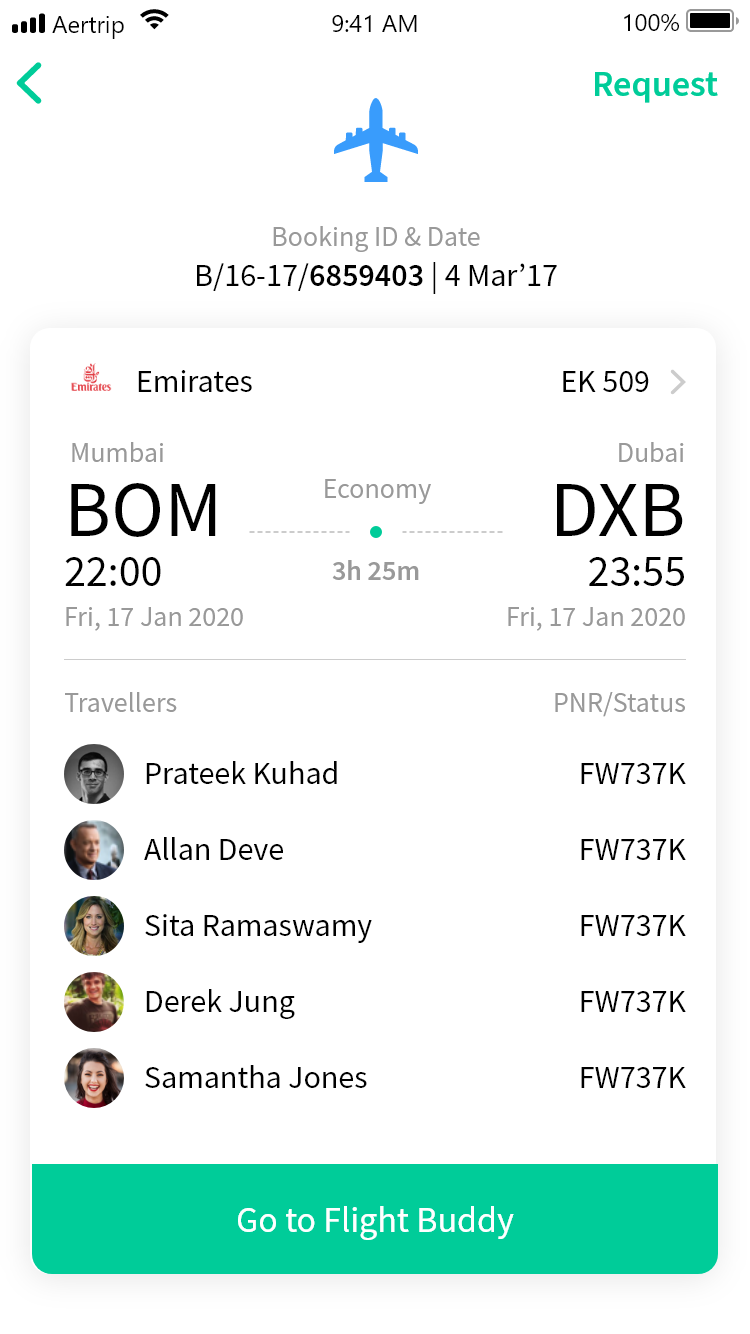
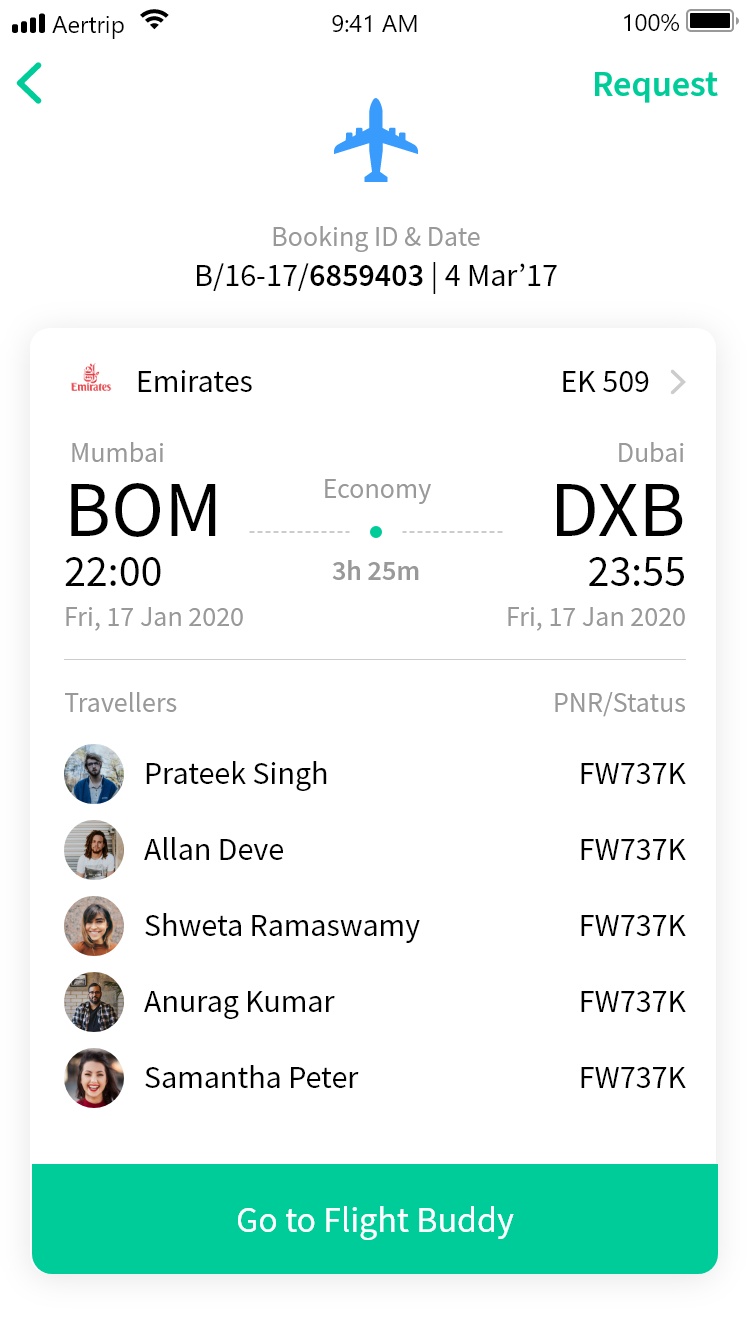
sdsd

diff --git a/case-study-2.html b/case-study-2.html
@@ -50,32 +50,33 @@
 		<div class="case-study-date">JANUARY, 2020</div>
 
 
-		<p class="text">Planning and making sure you are ready to board a flight has shown to be an anxious experience for many flight-goers. 
-		This is a mobile experience I worked on at Aertrip to aggregate all the needs of a traveller after they book a flight 
-		and keep them company until they reach their destination.</p>
+		<p class="text">Planning and making sure you are ready to board a flight has shown to be an anxious experience for many flight-goers.
+			Beginning with what to pack for a trip to the journey to the airport to the myriad checkpoints within the airport, 
+			flight-goers ranging from casual to frequent flyers have been found to have several points during their journey where they
+			require assistance. This mobile experience aims to be an aggregator of those identified needs
+			after a person has booked a flight ticket. 
+			
+		</p>
+		<p class="text">I worked on this mobile experience in the capacity of a UX Designer at <a class="inline-links" href="https://www.aertrip.com/">Aertrip</a>, an online travel portal.
+		</p>
+
+
 
 		<h2 class="heading-two">Inspiration</h2>
-		<p class="text"><b class="BookMyShow">BookMyShow</b> in early 2019 released a feature called the <b class="BookMyShow">Movie Mode</b> which led us to extrapolate a similar experience for flight-goers.
+		<p class="text"><b class="BookMyShow">BookMyShow</b> in early 2019 released a feature called the <a class="inline-links" href="https://we-are.bookmyshow.com/introducing-moviemode-7b64ca34c86c">Movie Mode</a> which led us to extrapolate a similar experience for flight-goers.
 		It seemed to fit right into something as complex/ intimading as air travel for a lot of users. It took the goal of the experience a step further than delight 
 		by guiding a user through a set a sequential tasks especially useful in the context of airports.</p>
 
-		<h2 class="heading-two">User flow</h2>
-		<p class="text"></p>
+		<h2 class="heading-two">User Types</h2>
 
-		<div class="full-width">
-			<img class="userFlow" src="FlightBuddy/userFlow.png" alt="User Flow">
-		</div>
+		<p class="text">Opportunities in the user journeys varied primarily based on whether they were travelling domestically or 
+			internationally resulting in a continuum with<b class="bold"> domestic and international travellers </b>in its extremities.
+			Several other continuums such as frequency of travel, size of group travelling/ solo traveller, budget of the traveller etc.
+			were also taken into consideration based on user interviews on flight travel.
+		</p>
 
-		<h2 class="heading-two">Style Guide</h2>
-
-		<div class="full-width">
-			<img class="trello" src="FlightBuddy/styleGUide" alt="Style Guide">
-		</div>
-
-		<h2 class="heading-two">Research- User Personas and Journeys</h2>
+		<h2 class="heading-two">User Journeys</h2>
 		<p class="text">Realising user personas and analysing journeys took place somewhat simultaneously in the process.</p>
-		<p class="text">Since the opportunities identified during the user journeys varied based on whether they were travelling domestically or 
-			internationally, the users were categorised as <b class="bold">domestic and international travellers.</b></p>
 		<p class="text">The user journey was divided into 7 phases.</p>
 		<div class="full-width">
 			<img class="romap" src="FlightBuddy/phasesJourney.png" alt="7 phases of a journey">
@@ -97,41 +98,95 @@
 		<p class="text-left">A few rounds of feasibility discussions based on availability of reliable APIs and implementation 
 			led us to cut down the final set of cards in the experience to a minimum viable product.</p>
 
+		<h2 class="heading-two">User flow</h2>
+	
+
+		<div class="full-width">
+			<img class="userFlow" src="FlightBuddy/userFlow.png" alt="User Flow">
+		</div>
+
+		<h2 class="heading-two">Style Guide</h2>
+		<p class="text">Each card is typically arranged into a heading, a graphic and the relevant description.
+			It follows the style guide as in the card below.</p>
+
+		<div class="full-width">
+			<img class="trello" src="FlightBuddy/styleGuide.png" alt="Style Guide">
+		</div>
+
 		<h2 class="heading-two">Touchpoints</h2>	
-		<p class="text">Flight Buddy is accessible only to registered users on the Aertrip App on their Android and iOS devices.
-			It can be accessed from the homescreen 24 hours prior to the departure and from the bookings section as
-			soon as the booking is made.
+		<p class="text">Prateek has booked a flight from Mumbai to Dubai for him and four 
+			other colleagues, Allan, Shweta, Anurag and Samantha on the 17th January, 2020 using the Aertrip web app.
 		</p>
 
 		<div class="grid-7">
 			<img class="touchpoint1" src="FlightBuddy/touchpoint1.png" alt="Touchpoint 1">
 			<img class="touchpoint2" src="FlightBuddy/touchpoint2.png" alt="Touchpoint 2">
 		</div>
-		
+		<div class="grid-7">
+			<p class="text-touchpoint1">Flight Buddy is accessible to Prateek on his mobile on the Aertrip app 
+				homescreen 24 hours prior to their departure.
+			</p>
+			<p class="text-touchpoint2">Flight Buddy is also accessible to Prateek from the booking section on the app 
+				after booking.
+			</p>
+		</div>
+
+		<h2 class="heading-two">Introducing Flight Buddy</h2>	
+		<div class="full-width">
+			<img class="trello" src="FlightBuddy/shareAndClose.png" alt="Style Guide">
+		</div>	
 
 		<div class="grid-7">
 			<div class="flightbuddy-product-features">
-				<h2 class="heading-two-topmargin">Product Features</h2>	
-				<p class="text-left">The MVP focuses on a simple user experience 
-				 with features that were of utmost priority for users and the existing product. </p>	
+				<h2 class="heading-two-topmargin">Scroll</h2>	
+				<p class="text-left">On entering the Flight Buddy experience at any given time, Prateek lands on the card
+					most relevant to him at that point of time in the journey.</p>	
 			</div>
 			<div class="flightbuddy-product-features">
 			</div>
 			<img class="fullScroll" src="FlightBuddy/fullScroll.png" alt="Full Scroll">
 		</div>
 
-		<p class="text">The feature remains collapsible at any time if there is a need to navigate to other pages and could also be shared with friends 
-		and fellow travellers once they download the mobile app and register as users. 
+		
+		<h2 class="heading-two">Rating slider</h2>
+		
+
+		<img class="ratingSliderVideo" src="FlightBuddy/ratingSlider.gif" alt="Style Guide">
+	
+
+		<h2 class="heading-two">Further Scope</h2>
+
+		<p class="text">The experience provides a lot more opportunities than currently in the pipeline. The
+		revamp to air travel post the Coronavirus outbreak, has also opened up quite a few opportunities within the experience.
 		</p>
-
-		<h2 class="tool">Going forward</h2>
-
-		<p class="text">The feature remains collapsible at any time if there is a need to navigate to other pages and could also be shared with friends 
-			and fellow travellers once they download the mobile app and register as users. 
+		<ol class="num-list-take" type="1">
+			<li class="list-item-takeaway"><b class="bold-miriam">COVID-19 related guidelines and updates :</b>
+				At this juncture when guidelines related to travel are constantly changing resulting in a lot of confusion among
+				travellers, Flight Buddy can become an effective facilitator for communication of updated protocols related to the 
+				user's journey.
+			</li>
+			<div class="full-width">
+				<img class="scope" src="FlightBuddy/arogyaSetu.png" alt="Style Guide">
+			</div>	
+			<li class="list-item-takeaway-last"><b class="bold-miriam">Empowering power users :</b> Incorporating the "Where's my flight?"
+				feature for frequent flyers or flight enthusiasts that gives the status and location of your flight at any time 
+				or creating custom packing lists have also emerged as interesting 
+				requirements of tech-savvy flight-goers. 
+			</li>
+			<div class="grid-7">
+				<img class="power-user1" src="FlightBuddy/whereFlight.png" alt="Touchpoint 1">
+				<img class="power-user2" src="FlightBuddy/packList.png" alt="Touchpoint 2">
+			</div>
+			<li class="list-item-takeaway"><b class="bold-miriam">Fostering business partnerships :</b> And finally, there also 
+				are opportunities for 
+				paid promotions of online streaming application like Netflix or Amazon Prime and 
+				of lounges or stores within airports. 		
+			</li>
+		</ol>
+		<p class="text">With advancements in the infrastructure and policies surrounding air travel, 'Flight Buddy' is a
+			feature that can evolve to educate and be a helping hand to flight-goers. 
 			</p>
 
-
-		<h2 class="tool"> Tools used</h2>
 
 		<figcaption class="emoji-end">&#127797</figcaption>
 		<p class="text-block"> Thank you for your time! I'd love to hear your feedback. </p>

diff --git a/c-section.css b/c-section.css
@@ -54,6 +54,7 @@
 	font-size: 1.8rem;
 	margin-bottom: 0.4rem;
 	line-height: 1.5em;
+	color: white;
 }
 
 .flightbuddy-product-features {
@@ -346,8 +347,15 @@
 
 .trello {
 	display: block;
-	margin: 3rem auto 0 auto;
+	margin: 3rem auto 3rem auto;
 	max-width: 65%;
+}
+
+.scope {
+	display: block;
+	margin: 3rem auto 8rem auto;
+	max-width: 40%;
+	box-shadow: 0px 0px 25px 10px rgba(0,0,0,0.08);
 }
 
 .userFlow {
@@ -369,16 +377,33 @@
 .touchpoint1 {
 	grid-column: 1;
 	display: block;
-	margin: 5rem auto 0 0;
+	margin: 5rem auto 2rem 0;
 	max-width: 85%;
 	float: left;
-
 }
 
 .touchpoint2 {
 	grid-column: 2;
 	display: block;
-	margin: 5rem 0 0 auto;
+	margin: 5rem 0 2rem auto;
+	max-width: 85%;
+	float: right;
+	box-shadow: 0px 0px 25px 10px rgba(0,0,0,0.08);
+}
+
+.power-user1 {
+	grid-column: 1;
+	display: block;
+	margin: 5rem auto 8rem 0;
+	max-width: 85%;
+	float: left;
+	box-shadow: 0px 0px 25px 10px rgba(0,0,0,0.08);
+}
+
+.power-user2 {
+	grid-column: 2;
+	display: block;
+	margin: 5rem 0 8rem auto;
 	max-width: 85%;
 	float: right;
 	box-shadow: 0px 0px 25px 10px rgba(0,0,0,0.08);
@@ -402,4 +427,10 @@
 	text-align: center;
 	color: #696969;
 	line-height: 1.8rem ;
+}
+
+.ratingSliderVideo {
+	margin: 5rem auto 4rem auto;
+	max-width: 45%;
+	box-shadow: 0px 0px 25px 10px rgba(0,0,0,0.08);
 }

diff --git a/style.css b/style.css
@@ -65,11 +65,29 @@ body {
     margin-block-start: 1.3em;
 }
 
+.text-touchpoint1 {
+	font-size: 1rem;
+	line-height: 1.9rem;
+	color: #696969;
+    margin-bottom: 5rem;
+	margin-block-start: 1.3em;
+	margin-right: 4rem;
+}
+
+.text-touchpoint2 {
+	font-size: 1rem;
+	line-height: 1.9rem;
+	color: #696969;
+    margin-bottom: 5rem;
+	margin-block-start: 1.3em;
+	margin-left: 4rem;
+}
+
 .text-left {
 	font-size: 1rem;
 	line-height: 1.9rem;
 	color: #696969;
-	margin: 1.3em 8rem 0 0;
+	margin: 0 8rem 0 0;
 }
 
 .thanks {
